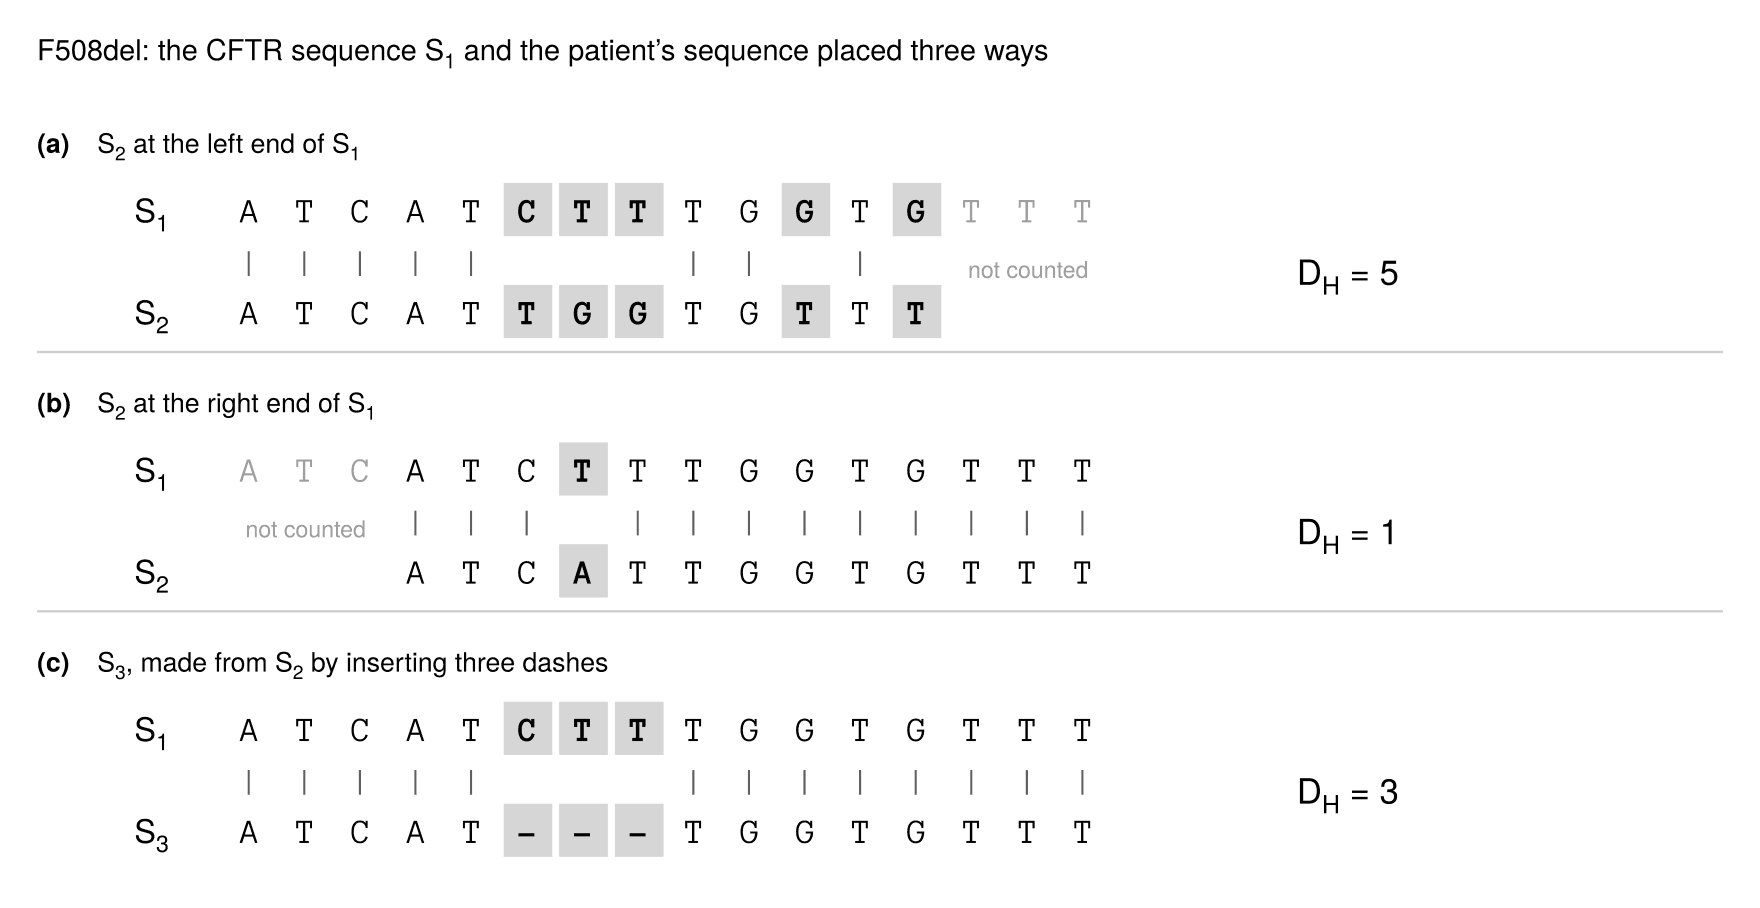
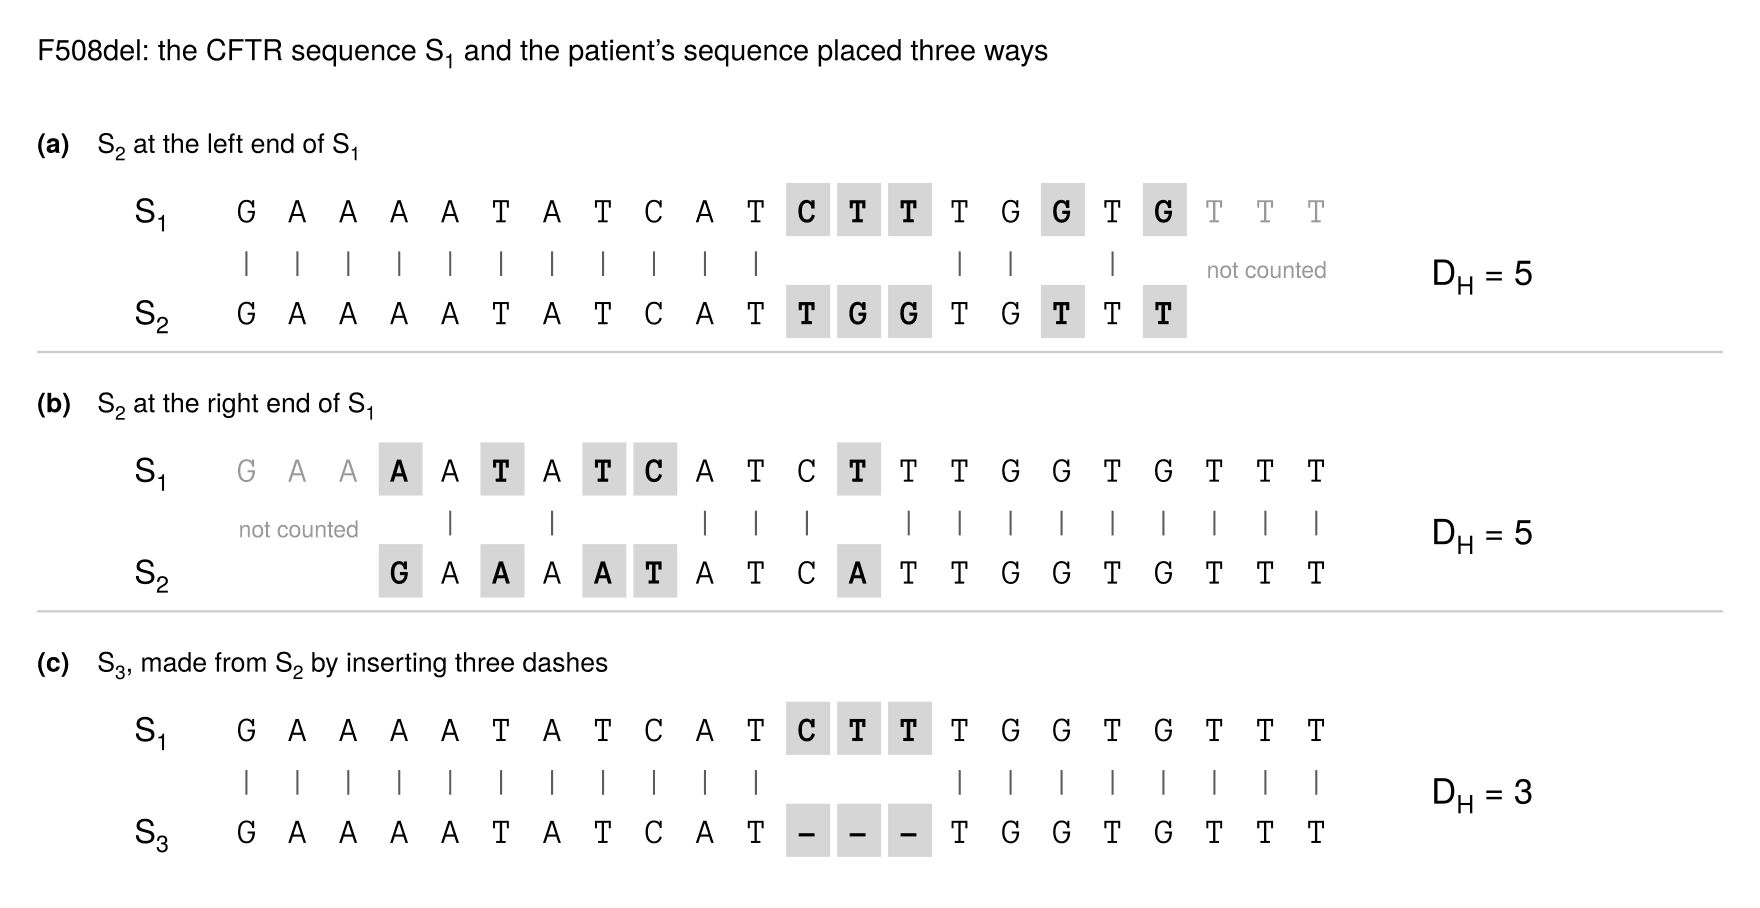
unit2_notes: hamming-f508del on a longer CFTR stretch (GAAAAT 5' flank)
S1 = GAAAATATCATCTTTGGTGTTT, S2 = GAAAATATCATTGGTGTTT: left 5, right 5,
gapped 3, so sliding no longer looks close.

Claude-Session: https://claude.ai/code/session_01X331f2EKJurjMJoA6wFAKQ

diff --git a/README.md b/README.md
@@ -49,7 +49,7 @@ source) and a PNG (1760 px wide, greyscale, for Google Docs).
 | figure | what it shows |
 |---|---|
 | `hamming-kj-target` | Hamming distance from the patient's 23-character KJ target S1 (CPS1 Q335X) to the wild-type CPS1 sequence (1), the ATP7B intron site (4) and the DNAI7 exon site (5); differing characters shaded |
-| `hamming-f508del` | Hamming distance between the CFTR sequence around F508 (S1, 16 characters) and the patient's F508del sequence (S2, 13): (a) S2 at the left end of S1, 5; (b) at the right end, 1; (c) S3 = S2 with three dashes inserted, 3. Overhanging characters are not counted |
+| `hamming-f508del` | Hamming distance between the CFTR sequence around F508 (S1 = GAAAATATCATCTTTGGTGTTT, 22 characters) and the patient's F508del sequence (S2, 19): (a) S2 at the left end of S1, 5; (b) at the right end, 5; (c) S3 = S2 with three dashes inserted, 3. Overhanging characters are not counted |
 
 ## lab1/
 
